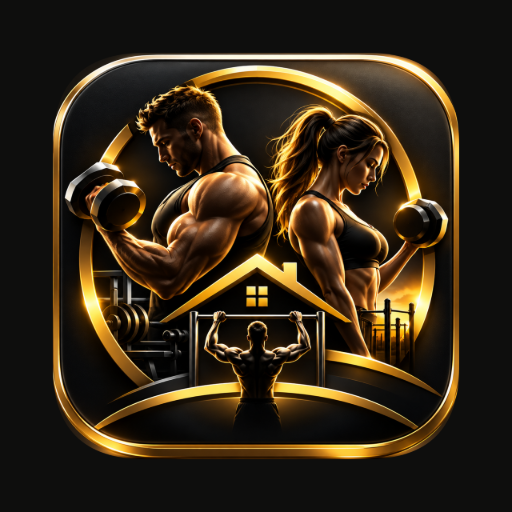
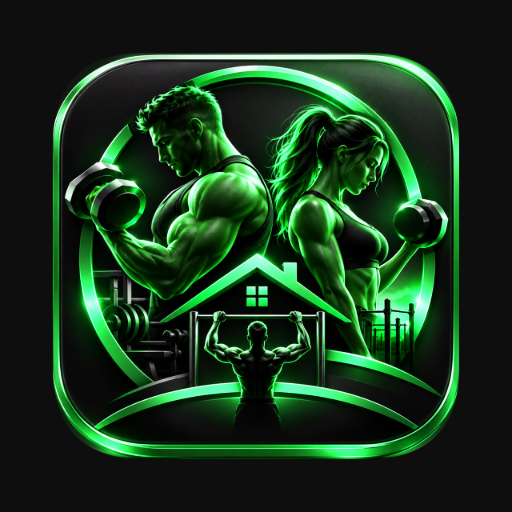
Green theme: drop the gold
Palette after the gym photos: cool near-black ground, green-black
surfaces, neon green as the one signal colour. Every token and every
hard-coded warm colour in the stylesheet moves over (hero, tabs, chips,
pill, stepper, rest timer, splash, exercise-card slab, focus map), the
theme colour in the shell and manifest follows, the four app icons are
hue-shifted from gold to green, and the README and comments say green
instead of gold. Set bubbles stay red to do, green when done. Version 63.

Claude-Session: https://claude.ai/code/session_017U53NrmA3WvXjLbCNcCgfU

diff --git a/css/styles.css b/css/styles.css
@@ -3,8 +3,8 @@
  * Layout: one column of cards under a sticky top bar, a fixed bottom nav,
  * 16px gutters, 640px max width. Display type (Oswald, condensed, uppercase)
  * carries the brand on titles and numbers; Manrope carries everything else.
- * Palette drawn from the app icon: warm near-black ground, charcoal surfaces
- * with a slight gold bias, one gold accent. The app is a single dark world:
+ * Palette drawn from the gym photos: cool near-black ground, green-black surfaces
+ * with a slight green bias, one neon-green accent. The app is a single dark world:
  * colours are fixed, color-scheme is dark. */
 
 @font-face {
@@ -24,29 +24,29 @@
 
 :root {
   color-scheme: dark;   /* already dark — stops Android's "force dark" re-tinting it */
-  --bg: #0c0b09;
-  --surface: #15140f;
-  --surface-2: #1e1c15;
-  --surface-3: #27241b;
-  --border: rgba(255, 228, 160, 0.09);
-  --border-strong: rgba(255, 228, 160, 0.18);
-  --text: #f3efe4;
-  --text-dim: #a39e90;
-  --text-faint: #6f6a5e;
-  --accent: #d9a92f;
-  --accent-2: #f0c75a;
-  --accent-dim: rgba(217, 169, 47, 0.14);
-  --accent-glow: rgba(217, 169, 47, 0.35);
-  --on-accent: #171207;
-  /* Three rules borrowed from print: gold is the one SIGNAL colour and only
+  --bg: #070d0b;
+  --surface: #0e1512;
+  --surface-2: #161f1a;
+  --surface-3: #1e2a23;
+  --border: rgba(107, 240, 180, 0.09);
+  --border-strong: rgba(107, 240, 180, 0.18);
+  --text: #eef5f0;
+  --text-dim: #9caba1;
+  --text-faint: #66746c;
+  --accent: #2ddc86;
+  --accent-2: #6bf0b4;
+  --accent-dim: rgba(45, 220, 134, 0.14);
+  --accent-glow: rgba(45, 220, 134, 0.35);
+  --on-accent: #03130a;
+  /* Three rules borrowed from print: neon green is the one SIGNAL colour and only
    * ever means "tap this"; everything else is ink on paper. Type is either
    * huge or tiny, nothing in between. Screens are built in three planes: big
    * ghost type at the back, the subject in the middle, buttons on top. */
-  --tap-border: rgba(217, 169, 47, 0.55);
-  --gold-edge: rgba(255, 255, 255, 0.88);   /* white rim on every golden chip, pill and bubble */
-  --ink-hi: #fff8e6;
-  --ink-glow: rgba(255, 248, 230, 0.28);
-  --ghost: rgba(243, 239, 228, 0.06);
+  --tap-border: rgba(45, 220, 134, 0.55);
+  --rim: rgba(255, 255, 255, 0.88);   /* white rim on every green chip, pill and bubble */
+  --ink-hi: #f2fff7;
+  --ink-glow: rgba(242, 255, 247, 0.28);
+  --ghost: rgba(238, 245, 240, 0.06);
   /* motion: enters ease out and land softly, exits are quick, releases spring back */
   --ease-out: cubic-bezier(0.22, 1, 0.36, 1);
   --ease-in: cubic-bezier(0.4, 0, 1, 1);
@@ -54,10 +54,10 @@
   --dur-fast: 110ms;
   --dur: 220ms;
   --dur-slow: 320ms;
-  --amber: #c0842a;
-  --blue: #e8cf7f;        /* champagne: links, chips (name kept from the earlier palette) */
+  --amber: #e0b84a;        /* warnings only */
+  --blue: #9df5c8;         /* pale mint: links, chips (name kept from the earlier palette) */
   --rose: #e0756a;
-  --gold-grad: linear-gradient(135deg, #f3d27a 0%, #d9a92f 50%, #b57c1c 100%);
+  --accent-grad: linear-gradient(135deg, #7df7bd 0%, #2ddc86 50%, #17a862 100%);
   --radius: 16px;
   --radius-sm: 10px;
   --shadow: 0 10px 30px rgba(0, 0, 0, 0.35);
@@ -95,7 +95,7 @@ button:focus:not(:focus-visible) { outline: none; }
 /* ------------------------------ header ------------------------------ */
 .topbar {
   position: sticky; top: 0; z-index: 10;
-  background: rgba(12, 11, 9, 0.97);
+  background: rgba(7, 13, 11, 0.97);
   backdrop-filter: blur(14px); -webkit-backdrop-filter: blur(14px);
   border-bottom: 1px solid var(--border);
   padding: calc(10px + env(safe-area-inset-top)) 16px 8px;
@@ -199,21 +199,21 @@ body.onboarding .topbar, body.onboarding .bottom-nav { display: none; }
 .day-tab-dow { font-size: 0.58rem; font-weight: 700; text-transform: uppercase; letter-spacing: 0.16em; }
 .day-tab-name { font-size: 1.1rem; font-weight: 500; text-transform: uppercase; letter-spacing: 0.06em; color: var(--text); white-space: nowrap; line-height: 1.1; }
 .day-tab-mark { color: var(--text); }
-.day-tab.active { background: var(--gold-grad); color: var(--on-accent); box-shadow: 0 4px 14px var(--accent-glow); }
+.day-tab.active { background: var(--accent-grad); color: var(--on-accent); box-shadow: 0 4px 14px var(--accent-glow); }
 .day-tab.active .day-tab-name, .day-tab.active .day-tab-mark { color: var(--on-accent); }
 
 /* ------------------------------ hero ------------------------------ */
 /* Middle plane: the hero sits under the tabs, over its own ghost type. */
 .hero {
   position: relative; overflow: hidden;
-  background: linear-gradient(135deg, #1f1b12 0%, #15140f 55%, #1b1a16 100%);
+  background: linear-gradient(135deg, #0f1c15 0%, #0d1310 55%, #101a14 100%);
   border: 1px solid var(--border-strong); border-radius: 20px;
   padding: 40px 18px 18px; margin: 0 0 14px;
   box-shadow: var(--shadow);
 }
 .hero::before {
   content: ''; position: absolute; top: -90px; right: -70px; width: 260px; height: 260px;
-  background: radial-gradient(circle, rgba(243, 239, 228, 0.07), transparent 62%); pointer-events: none;
+  background: radial-gradient(circle, rgba(238, 245, 240, 0.07), transparent 62%); pointer-events: none;
 }
 /* Back plane: the day's name as huge ghost type. */
 .hero-ghost, .card-ghost {
@@ -221,7 +221,7 @@ body.onboarding .topbar, body.onboarding .bottom-nav { display: none; }
   text-transform: uppercase; color: var(--ghost); pointer-events: none; user-select: none; white-space: nowrap;
 }
 .hero-ghost { right: -8px; top: -12px; font-size: 7.5rem; letter-spacing: -0.02em; }
-.hero.complete { border-color: rgba(243, 239, 228, 0.4); background: linear-gradient(135deg, #26211a 0%, #171510 60%, #1b1a16 100%); }
+.hero.complete { border-color: rgba(238, 245, 240, 0.4); background: linear-gradient(135deg, #12281b 0%, #0f1a13 60%, #101a14 100%); }
 .hero-main { display: flex; align-items: center; justify-content: space-between; gap: 14px; position: relative; }
 .hero-text { min-width: 0; }
 .hero-greeting { color: var(--text-dim); font-size: 0.66rem; font-weight: 700; text-transform: uppercase; letter-spacing: 0.18em; }
@@ -278,17 +278,17 @@ body.onboarding .topbar, body.onboarding .bottom-nav { display: none; }
 .exercise-card {
   padding: 16px; margin-bottom: 24px; scroll-margin-top: 112px; transition: border-color 0.2s ease;
   position: relative; overflow: hidden;
-  /* each workout sits on a solid warm-charcoal slab, one step up from the page,
-   * in the same black / charcoal / gold family as the rest of the app */
-  background: #262219;
-  border: 2px solid rgba(255, 228, 160, 0.34);
+  /* each workout sits on a solid dark-green slab, one step up from the page,
+   * in the same black / green family as the rest of the app */
+  background: #141c17;
+  border: 2px solid rgba(107, 240, 180, 0.34);
   box-shadow: 0 1px 0 rgba(255, 255, 255, 0.05) inset, 0 16px 36px rgba(0, 0, 0, 0.6);
   /* chips, bubbles and boxes inside the card sit one step lighter than the slab */
-  --surface-2: #332e21; --surface-3: #3e382a;
-  --border: rgba(255, 228, 160, 0.14); --border-strong: rgba(255, 228, 160, 0.26);
+  --surface-2: #1d2922; --surface-3: #27362d;
+  --border: rgba(107, 240, 180, 0.14); --border-strong: rgba(107, 240, 180, 0.26);
 }
-.card-ghost { right: 4px; top: -26px; font-size: 8.5rem; color: rgba(243, 239, 228, 0.075); }   /* back plane: the exercise number */
-.exercise-card.card-done { border-color: rgba(243, 239, 228, 0.45); }
+.card-ghost { right: 4px; top: -26px; font-size: 8.5rem; color: rgba(238, 245, 240, 0.075); }   /* back plane: the exercise number */
+.exercise-card.card-done { border-color: rgba(238, 245, 240, 0.45); }
 .exercise-card.swapped { border-color: var(--border-strong); }
 
 .exercise-top { display: flex; gap: 12px; align-items: flex-start; }
@@ -318,7 +318,7 @@ body.onboarding .topbar, body.onboarding .bottom-nav { display: none; }
   border: 1px solid var(--border);
 }
 .chip .ico { width: 11px; height: 11px; vertical-align: -1.5px; }
-.chip-gear, .chip-equip { background: var(--accent-2); color: var(--on-accent); border-color: var(--gold-edge); }   /* equipment: golden */
+.chip-gear, .chip-equip { background: var(--accent-2); color: var(--on-accent); border-color: var(--rim); }   /* equipment: green */
 .chip-muscle { background: var(--surface-2); color: var(--text-dim); }
 .chip-video { background: var(--accent-dim); color: var(--accent-2); border-color: var(--tap-border); text-decoration: none; }   /* tappable: signal colour */
 .chip-video .ico { width: 10px; height: 10px; }
@@ -326,8 +326,8 @@ body.onboarding .topbar, body.onboarding .bottom-nav { display: none; }
 
 .scheme-row { display: flex; align-items: center; gap: 10px; margin-top: 14px; }
 .scheme-pill {
-  background: var(--accent-2); color: var(--on-accent);   /* golden yellow: the sets × reps for today */
-  border: 1.5px solid var(--gold-edge);
+  background: var(--accent-2); color: var(--on-accent);   /* neon green: the sets × reps for today */
+  border: 1.5px solid var(--rim);
   border-radius: 999px; padding: 4px 12px;
   font-weight: 700; font-size: 0.8rem; letter-spacing: 0.1em; text-transform: uppercase;
   font-variant-numeric: tabular-nums;
@@ -343,11 +343,11 @@ body.onboarding .topbar, body.onboarding .bottom-nav { display: none; }
   background: rgba(0, 0, 0, 0.22); border: 1px solid var(--border); border-radius: 12px;
 }
 .body-map { width: 84px; height: 84px; flex: 0 0 auto; display: block; }
-.body-map .m-sil { fill: rgba(255, 255, 255, 0.05); stroke: rgba(255, 228, 160, 0.16); stroke-width: 0.8; }
-.body-map .m { fill: rgba(255, 255, 255, 0.09); stroke: rgba(12, 11, 9, 0.7); stroke-width: 0.6; }
+.body-map .m-sil { fill: rgba(255, 255, 255, 0.05); stroke: rgba(107, 240, 180, 0.16); stroke-width: 0.8; }
+.body-map .m { fill: rgba(255, 255, 255, 0.09); stroke: rgba(7, 13, 11, 0.7); stroke-width: 0.6; }
 .body-map .m-primary { fill: var(--ink-hi); filter: drop-shadow(0 0 3px var(--ink-glow)); }
-.body-map .m-secondary { fill: rgba(255, 248, 230, 0.4); }
-.body-map .m-lines { fill: none; stroke: rgba(12, 11, 9, 0.55); stroke-width: 0.8; }
+.body-map .m-secondary { fill: rgba(242, 255, 247, 0.4); }
+.body-map .m-lines { fill: none; stroke: rgba(7, 13, 11, 0.55); stroke-width: 0.8; }
 /* your own front/back figure in place of the drawn map: a little wider, since it shows two full bodies */
 .body-map-photo { object-fit: contain; object-position: center; width: 104px; height: 92px; }
 .focus-big .body-map-photo { width: 200px; height: 176px; }
@@ -366,7 +366,7 @@ body.onboarding .topbar, body.onboarding .bottom-nav { display: none; }
 .focus-legend { display: flex; gap: 12px; margin-top: 8px; font-size: 0.72rem; color: var(--text-dim); }
 .focus-legend i { display: inline-block; width: 10px; height: 10px; border-radius: 3px; vertical-align: -1px; margin-right: 5px; }
 .focus-legend .k-primary { background: var(--ink-hi); }
-.focus-legend .k-secondary { background: rgba(255, 248, 230, 0.4); }
+.focus-legend .k-secondary { background: rgba(242, 255, 247, 0.4); }
 
 .weight-line {
   display: flex; align-items: center; justify-content: space-between; gap: 10px;
@@ -397,15 +397,15 @@ body.onboarding .topbar, body.onboarding .bottom-nav { display: none; }
 .set-bubble {
   width: 46px; height: 46px; border-radius: 50%;
   background: #d4383a; color: #fff;   /* red: a set still to do */
-  border: 1.5px solid var(--gold-edge);
+  border: 1.5px solid var(--rim);
   box-shadow: 0 6px 16px rgba(0, 0, 0, 0.35);   /* top plane: the buttons float */
   font-size: 1rem; font-weight: 800; cursor: pointer;
   font-variant-numeric: tabular-nums;
 }
 .set-bubble.done {
   /* green with the same white rim: a set that is done, next to the red ones still to do */
-  background: linear-gradient(135deg, #2fa457 0%, #1f7f41 100%); border-color: var(--gold-edge); color: #fff;
-  box-shadow: 0 4px 14px rgba(47, 164, 87, 0.4);
+  background: linear-gradient(135deg, #2ddc86 0%, #17a862 100%); border-color: var(--rim); color: #fff;
+  box-shadow: 0 4px 14px rgba(45, 220, 134, 0.4);
   animation: bubble-pop 0.28s cubic-bezier(0.2, 0.9, 0.3, 1.3);
 }
 @keyframes bubble-pop { 0% { transform: scale(0.85); } 60% { transform: scale(1.08); } 100% { transform: scale(1); } }
@@ -424,7 +424,7 @@ body.onboarding .topbar, body.onboarding .bottom-nav { display: none; }
 .reps-label { font-size: 0.64rem; font-weight: 800; text-transform: uppercase; letter-spacing: 0.14em; color: var(--text-dim); }
 .reps-btn {
   width: 36px; height: 36px; border-radius: 50%; flex: 0 0 auto;
-  background: var(--accent-2); color: var(--on-accent); border: 1.5px solid var(--gold-edge);   /* golden, like the set bubbles */
+  background: var(--accent-2); color: var(--on-accent); border: 1.5px solid var(--rim);   /* green, like the pill */
   font-size: 1.25rem; font-weight: 800; line-height: 1; cursor: pointer;
 }
 .reps-val { font-family: var(--font-display); font-size: 1.6rem; font-weight: 600; min-width: 2.4em; text-align: center; color: var(--text); font-variant-numeric: tabular-nums; }
@@ -571,7 +571,7 @@ body.onboarding .topbar, body.onboarding .bottom-nav { display: none; }
 .vl-playlist {
   display: flex; align-items: center; gap: 8px;
   background: var(--accent-dim); color: var(--accent-2);
-  border: 1px solid rgba(217, 169, 47, 0.5); border-radius: var(--radius-sm);
+  border: 1px solid rgba(45, 220, 134, 0.5); border-radius: var(--radius-sm);
   padding: 10px 12px; font-weight: 800; font-size: 0.85rem; text-decoration: none;
 }
 .vl-playlist .ico { color: var(--accent); }
@@ -586,8 +586,8 @@ body.onboarding .topbar, body.onboarding .bottom-nav { display: none; }
   position: fixed; left: 12px; right: 12px;
   bottom: calc(80px + env(safe-area-inset-bottom));
   max-width: 616px; margin: 0 auto;
-  background: rgba(30, 28, 21, 0.96); backdrop-filter: blur(12px); -webkit-backdrop-filter: blur(12px);
-  border: 1px solid rgba(243, 239, 228, 0.35);
+  background: rgba(14, 21, 18, 0.96); backdrop-filter: blur(12px); -webkit-backdrop-filter: blur(12px);
+  border: 1px solid rgba(238, 245, 240, 0.35);
   border-radius: 18px;
   padding: 10px 14px 12px;
   box-shadow: 0 12px 32px rgba(0, 0, 0, 0.6), 0 0 24px rgba(0, 0, 0, 0.4);
@@ -625,7 +625,7 @@ body.timer-on .main { padding-bottom: calc(184px + env(safe-area-inset-bottom));
 .bottom-nav {
   position: fixed; left: 0; right: 0; bottom: 0; z-index: 30;
   display: flex; justify-content: space-around;
-  background: rgba(12, 11, 9, 0.97); backdrop-filter: blur(16px); -webkit-backdrop-filter: blur(16px);
+  background: rgba(7, 13, 11, 0.97); backdrop-filter: blur(16px); -webkit-backdrop-filter: blur(16px);
   border-top: 1px solid var(--border);
   padding: 6px 8px calc(6px + env(safe-area-inset-bottom));
 }
@@ -703,7 +703,7 @@ body.timer-on .toast { bottom: calc(200px + env(safe-area-inset-bottom)); }   /*
 
 .primary-btn {
   display: flex; align-items: center; justify-content: center; gap: 8px; width: 100%; margin-top: 24px;
-  background: var(--gold-grad); color: var(--on-accent);
+  background: var(--accent-grad); color: var(--on-accent);
   border: none; border-radius: 14px; padding: 16px;
   font-family: var(--font-display); font-size: 1.3rem; font-weight: 600; letter-spacing: 0.08em; text-transform: uppercase; cursor: pointer;
   box-shadow: 0 10px 28px var(--accent-glow), 0 18px 40px rgba(0, 0, 0, 0.5);
@@ -731,7 +731,7 @@ body.timer-on .toast { bottom: calc(200px + env(safe-area-inset-bottom)); }   /*
 .key { display: inline-block; width: 10px; height: 10px; border-radius: 3px; margin: 0 4px 0 8px; vertical-align: middle; }
 .key.full { background: var(--ink-hi); } .key.part { background: var(--surface-3); border: 1px solid var(--text-dim); }
 .hist-row { display: flex; align-items: center; gap: 10px; padding: 10px 12px; margin-bottom: 8px; }
-.hist-row.full { border-color: rgba(243, 239, 228, 0.35); }
+.hist-row.full { border-color: rgba(238, 245, 240, 0.35); }
 .hist-date { font-size: 0.66rem; font-weight: 700; color: var(--text-dim); width: 74px; flex: 0 0 auto; letter-spacing: 0.04em; }
 .hist-main { flex: 1; min-width: 0; }
 .hist-main strong { display: block; font-family: var(--font-display); font-size: 1.25rem; font-weight: 500; text-transform: uppercase; letter-spacing: 0.03em; line-height: 1; }
@@ -774,17 +774,17 @@ body.timer-on .toast { bottom: calc(200px + env(safe-area-inset-bottom)); }   /*
 .splash.hide { opacity: 0; pointer-events: none; }
 .splash-glow {
   position: absolute; width: 300px; height: 300px; border-radius: 50%;
-  background: radial-gradient(circle, rgba(255, 196, 64, 0.22) 0%, rgba(255, 196, 64, 0) 65%);
+  background: radial-gradient(circle, rgba(45, 220, 134, 0.22) 0%, rgba(45, 220, 134, 0) 65%);
   animation: splash-glow 1.6s ease-in-out infinite alternate;
 }
 .splash-logo {
   width: 132px; height: 132px; border-radius: 30px; position: relative;
-  box-shadow: 0 18px 50px rgba(0, 0, 0, 0.6), 0 0 0 1px rgba(255, 196, 64, 0.25);
+  box-shadow: 0 18px 50px rgba(0, 0, 0, 0.6), 0 0 0 1px rgba(45, 220, 134, 0.25);
   animation: splash-pop 0.7s cubic-bezier(0.2, 0.9, 0.3, 1.2) both;
 }
 .splash-name {
   margin-top: 16px; font-size: 2.6rem; font-weight: 600; text-transform: uppercase; letter-spacing: 0.12em; line-height: 1; position: relative;
-  background: var(--gold-grad);
+  background: var(--accent-grad);
   -webkit-background-clip: text; background-clip: text; color: transparent;
   animation: splash-rise 0.6s ease-out 0.25s both;
 }

diff --git a/index.html b/index.html
@@ -3,7 +3,7 @@
 <head>
   <meta charset="UTF-8" />
   <meta name="viewport" content="width=device-width, initial-scale=1.0, viewport-fit=cover" />
-  <meta name="theme-color" content="#0c0b09" />
+  <meta name="theme-color" content="#070d0b" />
   <meta name="color-scheme" content="dark" />
   <meta name="description" content="Your weekly gym plan — different every week, with real-photo form guides. Works offline." />
   <title>Stay Strong — Gym Planner</title>
@@ -13,7 +13,7 @@
   <meta name="apple-mobile-web-app-capable" content="yes" />
   <meta name="apple-mobile-web-app-status-bar-style" content="black-translucent" />
   <meta name="apple-mobile-web-app-title" content="Stay Strong" />
-  <link rel="stylesheet" href="css/styles.css?v=62" />
+  <link rel="stylesheet" href="css/styles.css?v=63" />
 </head>
 <body>
   <div id="splash" class="splash" role="status" aria-label="Stay Strong is loading">
@@ -94,14 +94,14 @@
       <svg class="nav-icon" viewBox="0 0 24 24" aria-hidden="true"><circle cx="12" cy="12" r="3" /><path d="M12 3v2.5M12 18.5V21M3 12h2.5M18.5 12H21M5.6 5.6l1.8 1.8M16.6 16.6l1.8 1.8M5.6 18.4l1.8-1.8M16.6 7.4l1.8-1.8" /></svg>Settings</button>
   </nav>
 
-  <script src="js/exercises.js?v=62"></script>
-  <script src="js/demos.js?v=62"></script>
-  <script src="js/media.js?v=62"></script>
-  <script src="js/anims.js?v=62"></script>
-  <script src="js/videos.js?v=62"></script>
-  <script src="js/icons.js?v=62"></script>
-  <script src="js/muscles.js?v=62"></script>
-  <script src="js/app.js?v=62"></script>
+  <script src="js/exercises.js?v=63"></script>
+  <script src="js/demos.js?v=63"></script>
+  <script src="js/media.js?v=63"></script>
+  <script src="js/anims.js?v=63"></script>
+  <script src="js/videos.js?v=63"></script>
+  <script src="js/icons.js?v=63"></script>
+  <script src="js/muscles.js?v=63"></script>
+  <script src="js/app.js?v=63"></script>
   <script>
     // Register the offline cache, and auto-reload once a new version has
     // installed — so updates apply on the first open, no relaunch dance.

diff --git a/js/muscles.js b/js/muscles.js
@@ -1,7 +1,7 @@
 /* Stay Strong — muscle focus map.
  *
  * A stylised front/back figure where every muscle group is its own shape. For
- * each exercise the target muscles light up gold (primary) and dim gold
+ * each exercise the target muscles light up bright (primary) and dimmer
  * (secondary), with a one-line mind–muscle cue for the primary muscle. The
  * regions are read from the exercise's `muscles` text, so every exercise gets a
  * map without hand-tagging; the cue comes from the first primary region. */

diff --git a/sw.js b/sw.js
@@ -5,7 +5,7 @@
  * cache that the page fills in the background and that the fetch handler
  * tops up on demand. */
 
-const VERSION = 62;                 // keep in step with APP_VERSION in js/app.js
+const VERSION = 63;                 // keep in step with APP_VERSION in js/app.js
 const CACHE = `staystrong-v${VERSION}`;
 const PHOTO_CACHE = 'staystrong-photos';  // demo photos + animated clips; survives version bumps
 const ASSETS = [

diff --git a/js/app.js b/js/app.js
@@ -6,7 +6,7 @@
 
 'use strict';
 
-const APP_VERSION = 62;  // keep in step with VERSION in sw.js and ?v= in index.html
+const APP_VERSION = 63;  // keep in step with VERSION in sw.js and ?v= in index.html
 
 /* ------------------------------ training phases ------------------------------ */
 /* 4-week cycle. pct scales the user's saved working weight (a comfortable

diff --git a/README.md b/README.md
@@ -126,7 +126,7 @@ remembered if you close the app mid-session.
   exercise to *plates* — for stacks with unmarked plates you enter the plate count
   and get suggestions back as plate counts.
 - **Muscle focus map.** Every card shows a small front/back figure with the
-  target muscle lit in gold and the helpers in a dimmer gold, plus a one-line
+  target muscle lit bright and the helpers dimmer, plus a one-line
   mind–muscle cue ("Pull with your elbows, not your hands…"). The guide has a
   larger "Where to feel it" version with a legend. The regions are read from each
   exercise's muscle description (`js/muscles.js`), so new exercises get a map
@@ -161,7 +161,7 @@ remembered if you close the app mid-session.
   can be built into the app for everyone; *Import pack* loads one.
 - **Animated demos.** Exercises listed in `js/anims.js` show a looping clip
   (`img/anim/<id>.webm` + `.mp4`, poster `.jpg`) in place of the photos, with the
-  working muscle highlighted in gold. Clips play while the guide is open, pause on
+  working muscle highlighted. Clips play while the guide is open, pause on
   tap, are saved for offline use with the photos, and the service worker answers
   the byte-range requests video players make, so they play offline on iPhone too.
   `tools/mannequin_curl.py` and `tools/mannequin_lat_raise.py` render the
@@ -175,7 +175,7 @@ remembered if you close the app mid-session.
   *Form video library* opens each training day as a YouTube playlist: save it,
   download it with Premium, and the buttons then play from your downloads with
   no signal.
-- **Three design rules.** Gold is the one *signal* colour and only ever means
+- **Three design rules.** Neon green is the one *signal* colour and only ever means
   "tap this" — buttons, chips, the active tab, set bubbles; everything else is
   ink on paper. Type is either huge (the day name, the week, a stat, the rest
   clock) or tiny (labels, chips, cues), nothing in between. Every screen is
@@ -220,7 +220,7 @@ python3 -m http.server 8000
 
 ```
 index.html            app shell (onboarding, workout, history, settings views)
-css/styles.css        mobile-first dark theme (black / charcoal / gold, from the icon)
+css/styles.css        mobile-first dark theme (near-black with neon green, after the gym photos)
 js/exercises.js       exercise database (160+ exercises with guides) + SVG pictograms
 js/videos.js          curated YouTube form video per exercise
 js/icons.js           monoline UI icon set
